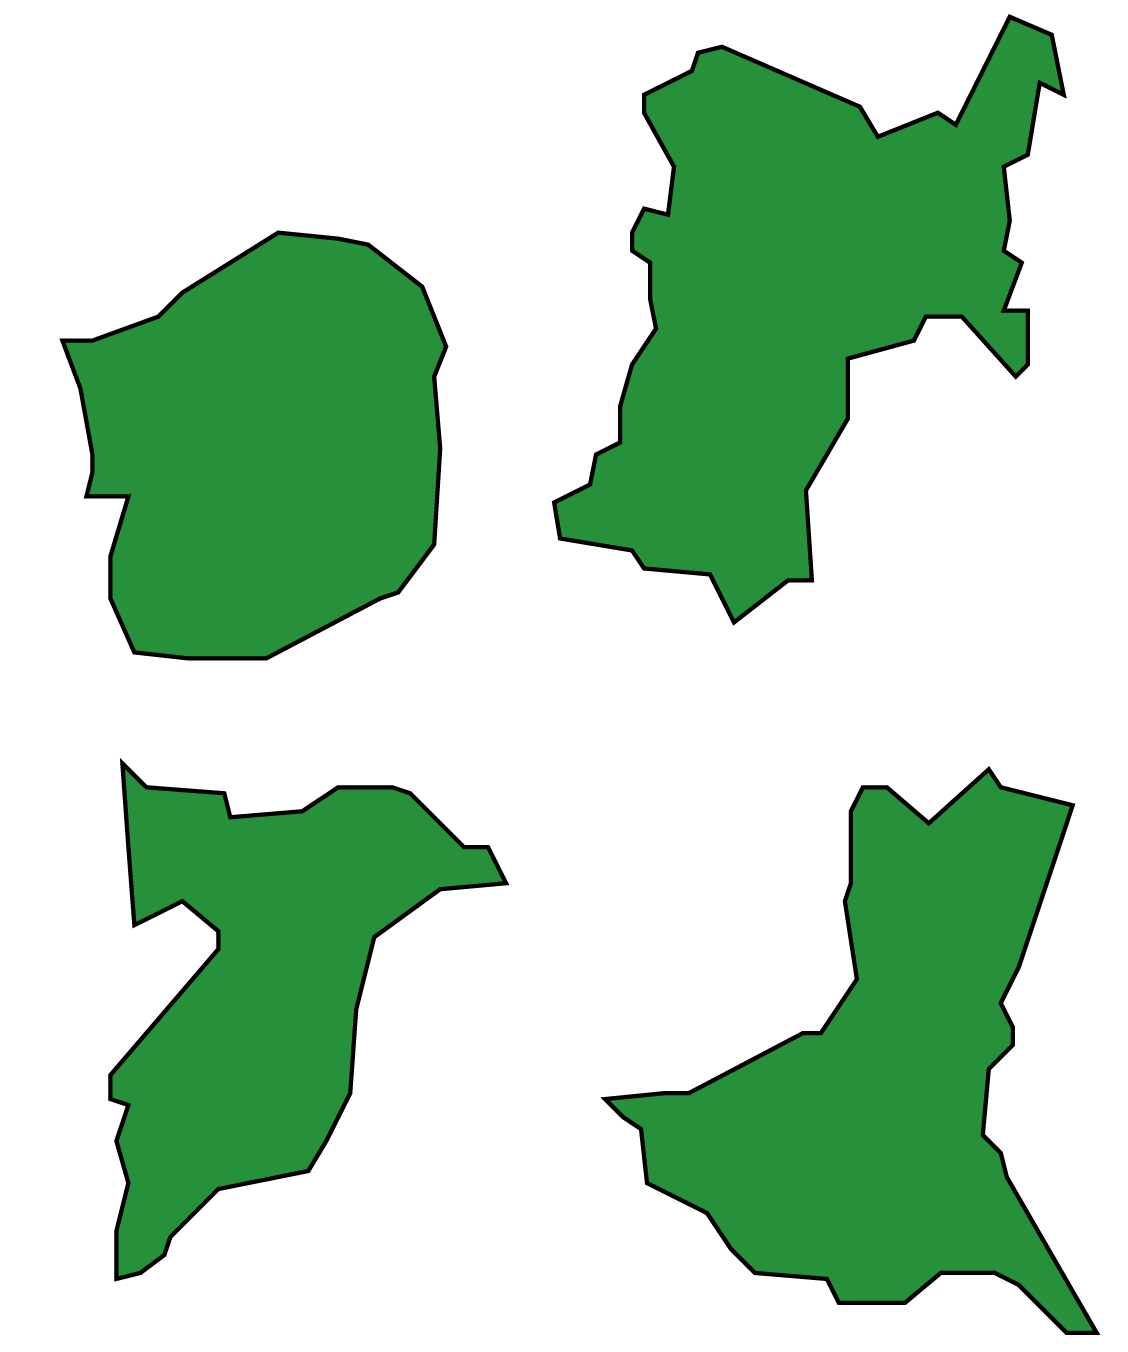
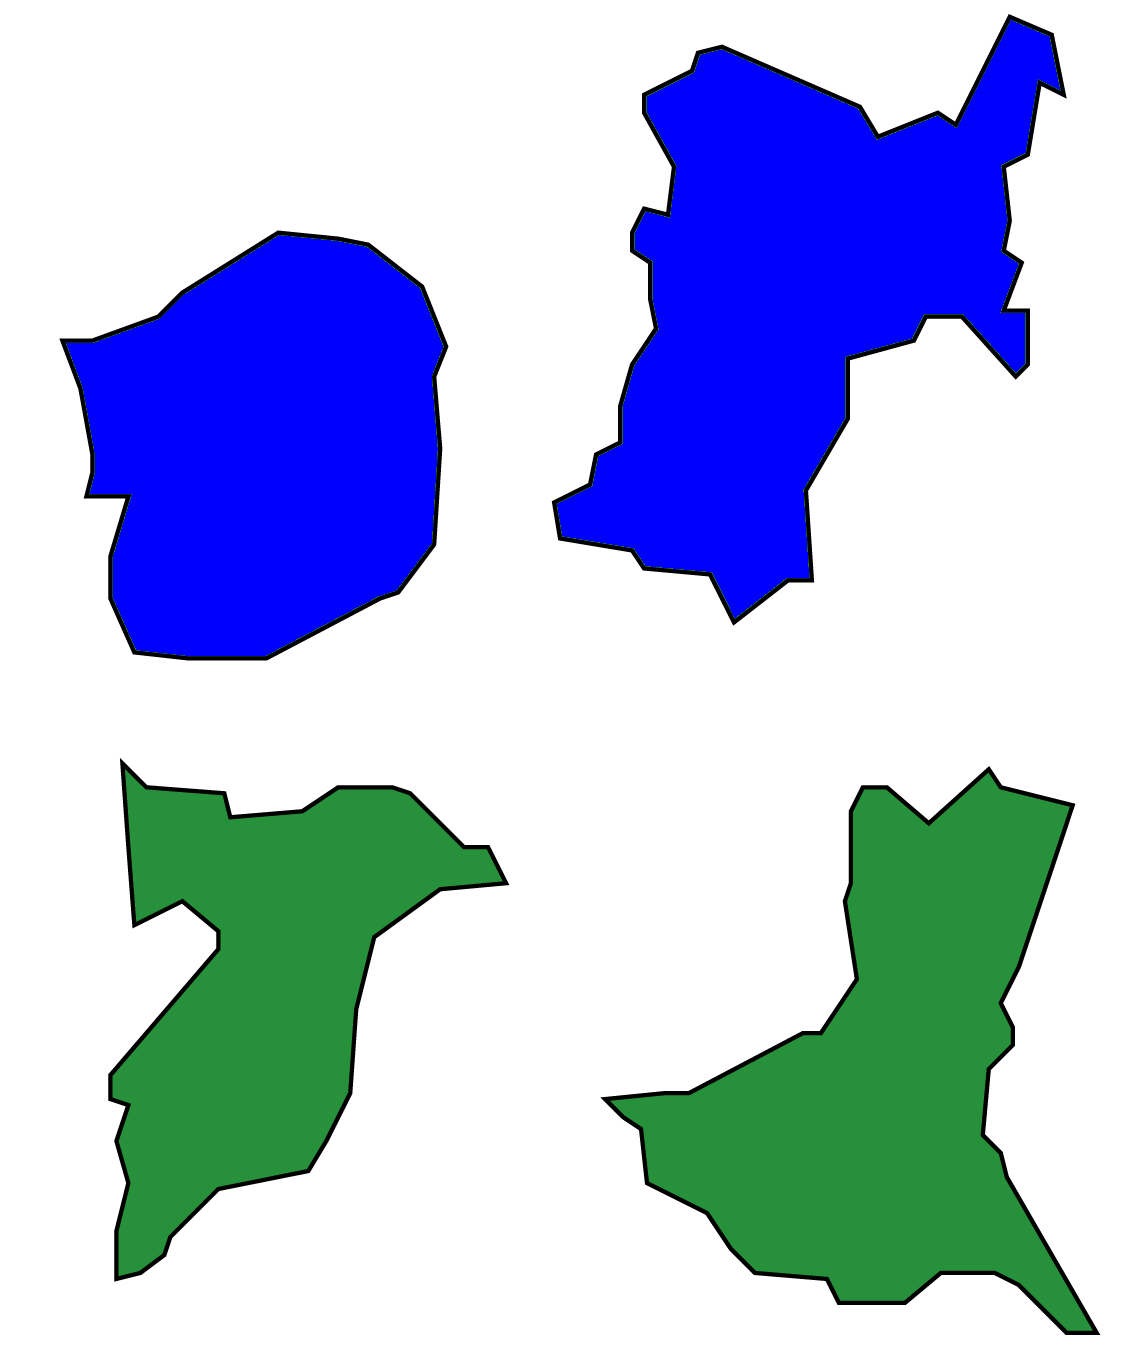
青と黒の輪郭線読み込みを使い分けられるようにした

Changed region(s): [[0.4965, 0.0, 0.9619, 0.466], [0.0621, 0.1553, 0.4034, 0.497]]

diff --git a/MainViewer_ImageDialog.cpp b/MainViewer_ImageDialog.cpp
@@ -2,6 +2,7 @@
 #include "RouteGenerator.h"
 #include "GUIButton.h"
 #include "GUIText.h"
+#include "GUIChecker.h"
 #include "GUITextBox.h"
 
 Array<Vec2> MainViewer::ImageDialog::getOutline(const Image& image, std::function<bool(Color)> judge)
@@ -387,12 +388,20 @@ MainViewer::ImageDialog::ImageDialog(const DroppedFilePath& droppedFilePath, con
 	, m_image(image)
 	, m_texture(image)
 {
-	m_multiPolygon = m_image.grayscaleToPolygons(160, false);
+
 }
 
 void MainViewer::ImageDialog::onLoad()
 {
-	const auto outers = getOutlines(m_image, [](const Color& color) { return color.grayscale() < 0.4; });
+	Array<Array<Vec2>> outers;
+	if (getChildViewer<GUIChecker>()->getValue())
+	{
+		outers = getOutlines(m_image, [](const Color& color) { return color.grayscale() < 0.4; });
+	}
+	else
+	{
+		outers = getOutlines(m_image, [](const Color& color) { return color == Color(0, 0, 255); });
+	}
 
 	for (const auto& outer : outers)
 	{
@@ -413,6 +422,7 @@ void MainViewer::ImageDialog::onLoad()
 
 	INIData ini(U"config.ini");
 	ini.write<double>(U"ImageDialog", U"PPI", Parse<int>(getChildViewer<GUITextBox>()->m_textEditState.text));
+	ini.write<double>(U"ImageDialog", U"OutlineMode", getChildViewer<GUIChecker>()->getValue());
 	ini.save(U"config.ini");
 
 	destroy();
@@ -475,6 +485,12 @@ void MainViewer::ImageDialog::init()
 	addChildViewer<GUITextBox>(Format(ini.getOr<int>(U"ImageDialog", U"PPI", 300)))
 		->setViewerRectInLocal(320, 5, 90, 30);
 
+	addChildViewer<GUIChecker>(ini.getOr<bool>(U"ImageDialog", U"OutlineMode", true))
+		->setViewerRectInLocal(440, 5, 30, 30);
+	addChildViewer<GUIText>(U"", Font(13), GUIText::Mode::DrawLeftCenter)
+		->setViewerRectInLocal(470, 5, 160, 30)
+		->setName(U"outlineModeText");
+
 	setViewerPosInLocal(Scene::Center() - getViewerSize() / 2.0);
 }
 
@@ -495,7 +511,15 @@ void MainViewer::ImageDialog::update()
 		const auto t = Transformer2D(Mat3x2::Translate(-m_image.size() / 2).scaled(s).translated(region.center()));
 
 		m_texture.draw(ColorF(0.5));
-		m_multiPolygon.drawFrame(2.0 * s, Palette::Green);
+	}
+
+	if (getChildViewer<GUIChecker>()->getValue())
+	{
+		getChildViewer<GUIText>(U"outlineModeText")->m_text = U"黒い輪郭線を読み取ります";
+	}
+	else
+	{
+		getChildViewer<GUIText>(U"outlineModeText")->m_text = U"青い輪郭線を読み取ります";
 	}
 
 	// PPIの選択

diff --git a/MainViewer_SerialSelector_SerialList.cpp b/MainViewer_SerialSelector_SerialList.cpp
@@ -37,7 +37,7 @@ void MainViewer::SerialSelector::SerialList::update()
 	{
 		const auto items = getChildViewers<Item>();
 
-		getChildViewer<GUISlider>()->setHeight(items.size() * itemHeight);
+		getChildViewer<GUISlider>()->setHeight(double(items.size()) * itemHeight);
 
 		const auto delta = -getChildViewer<GUISlider>()->getDelta();
 

diff --git a/GUIChecker.h b/GUIChecker.h
@@ -13,8 +13,9 @@ class GUIChecker :
 	Color	getTargetColor() const;
 
 public:
-	GUIChecker(bool isEnabled = true)
-		: m_isEnabled(isEnabled)
+	GUIChecker(bool value, bool isEnabled = true)
+		: m_value(value)
+		, m_isEnabled(isEnabled)
 	{}
 
 	void	init() override { m_color = getTargetColor(); }

diff --git a/MainViewer.h b/MainViewer.h
@@ -37,7 +37,6 @@ class MainViewer : public EasyViewer
 		DroppedFilePath m_droppedFilePath;
 		Image	m_image;
 		Texture	m_texture;
-		MultiPolygon	m_multiPolygon;
 		double	m_ppi = 72;
 		String	m_failedText;
 
